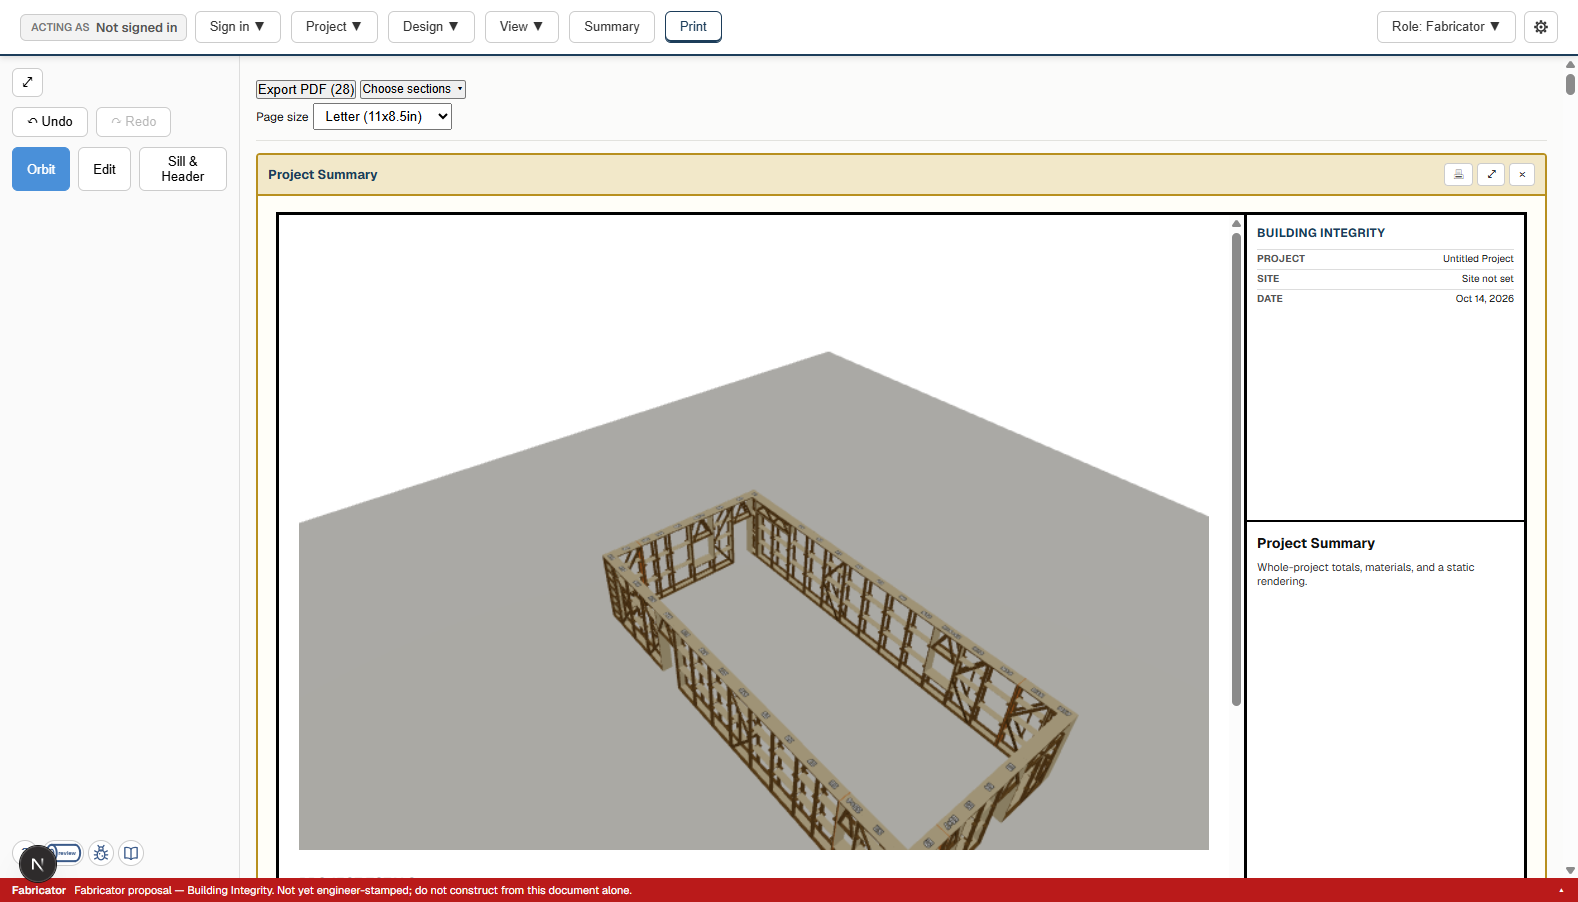
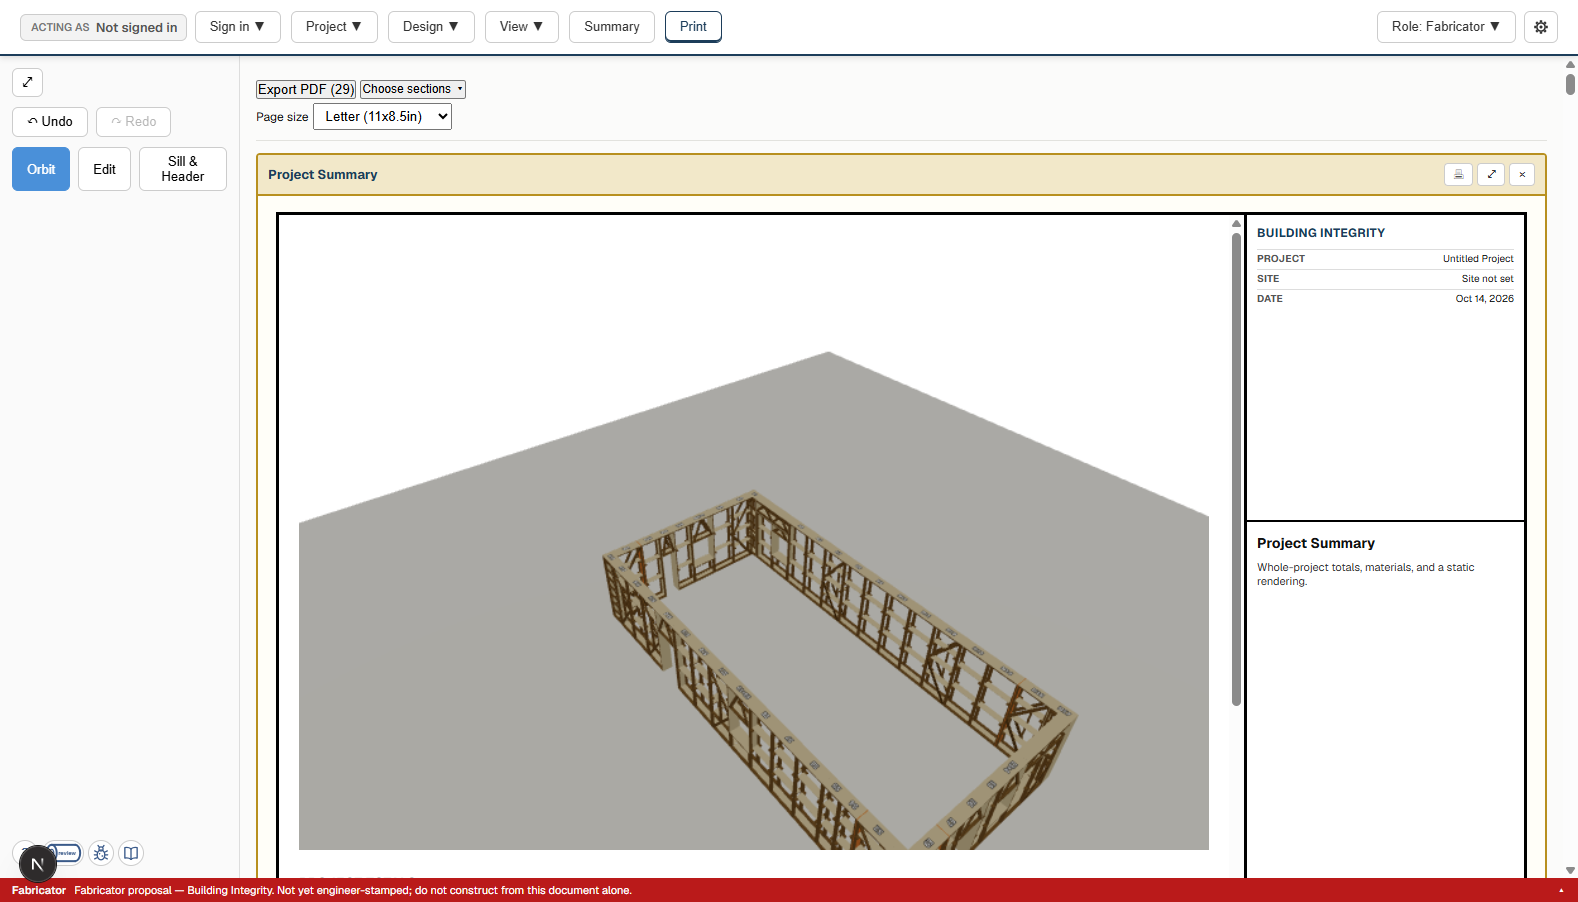
One badge per cut letter on the 3D view, on the nearest occurrence
Tommy, 2026-10-13, shown the first version: label one occurrence per letter,
keep the badges big, and the 3D view is the only image on the sheet.

The 3D view shows BOTH wythes, which the flat elevation hid because they
overlapped exactly — so a braced panel whose cut list has 7 letters was
carrying about 24 badges and burying the drawing they exist to explain. The cut
list already states the quantity: the table says HOW MANY, the drawing says
WHERE.

Nearest rather than first, because a leader line pointing at a member hidden
behind another one is worse than no leader at all. Result on a chevron braced
panel: 7 badges, 7 letters, no repeats.

⚠ AND THE FIRST IMPLEMENTATION OF THAT PICKED THE WRONG ONE. It deduplicated
with `new Map(pairs)` over a nearest-first list — but a Map built from
[key, value] pairs keeps the LAST entry for each key, so it selected the
FARTHEST occurrence of every letter: leaders pointing at boards hidden behind
other boards. Invisible in the rendered drawing, because a badge is present
either way and the picture looks fine. Replaced with an explicit seen-set that
says what it does, and pinned by a test — which lives in the projection's test
file precisely because the failure cannot be seen on screen.

Verified: tsc clean; 2,864 tests (was 2,861), 3 of them on the nearest-pick;
lint 168/120/48 — it went to 170/120/50 on two unused filter parameters I had
left in, named and removed rather than waved through; smearforn-stage-2b 14/14,
[…]

diff --git a/apps/web/app/panelAxonometric.test.ts b/apps/web/app/panelAxonometric.test.ts
@@ -131,3 +131,49 @@ describe("shading a colour", () => {
     }
   });
 });
+
+describe("picking which occurrence gets the badge", () => {
+  /* ⚠ The sheet labels one occurrence per cut letter, and it must be the
+     NEAREST one: a leader pointing at a member hidden behind another is worse
+     than no leader. This lives here rather than in the component because the
+     failure mode is invisible on screen — a badge is present either way, just
+     attached to the wrong board, and the drawing looks fine. */
+  const members = buildBracedPanelMembers(40, 15.5, 120, false, "chevron", false);
+  const proj = projectPanelAxonometric(members);
+
+  it("centroids carry a depth, so nearest is decidable at all", () => {
+    expect(proj.centroids).toHaveLength(members.length);
+    for (const c of proj.centroids) expect(Number.isFinite(c.depthIn)).toBe(true);
+  });
+
+  it("⚠ the two wythes really are at different depths — otherwise there is nothing to pick between", () => {
+    // A braced panel builds each brace twice, once per wythe. If both came back
+    // at the same depth, "nearest" would be a coin toss and this whole rule
+    // would be decorative.
+    const ext = members.findIndex((m) => m.memberId === "diagonal_brace_upper_ext");
+    const int = members.findIndex((m) => m.memberId === "diagonal_brace_upper_int");
+    expect(ext).toBeGreaterThanOrEqual(0);
+    expect(int).toBeGreaterThanOrEqual(0);
+    expect(Math.abs(proj.centroids[ext]!.depthIn - proj.centroids[int]!.depthIn)).toBeGreaterThan(1);
+  });
+
+  it("sorting nearest-first and keeping the FIRST of each letter keeps the near one", () => {
+    // The shape of the component's own selection, asserted directly: a Map
+    // built from [key, value] pairs would keep the LAST and silently select the
+    // farthest instead.
+    const byDepth = members
+      .map((m, i) => ({ id: m.memberId, depth: proj.centroids[i]!.depthIn }))
+      .sort((a, b) => a.depth - b.depth);
+    const seen = new Set<string>();
+    const kept = byDepth.filter((e) => {
+      const key = e.id.replace(/_(ext|int)$/, "");
+      if (seen.has(key)) return false;
+      seen.add(key);
+      return true;
+    });
+    for (const k of kept) {
+      const siblings = byDepth.filter((e) => e.id.replace(/_(ext|int)$/, "") === k.id.replace(/_(ext|int)$/, ""));
+      expect(k.depth).toBe(Math.min(...siblings.map((s) => s.depth)));
+    }
+  });
+});

diff --git a/apps/web/app/PanelElevationDiagram.tsx b/apps/web/app/PanelElevationDiagram.tsx
@@ -310,8 +310,31 @@ export default function PanelElevationDiagram({ members, widthIn, heightIn, comp
   const uToPx = (uIn: number) => originX + (uIn - (axo?.bounds.minU ?? 0)) * pxPerIn;
   const vToPx = (vIn: number) => originY + (vIn - (axo?.bounds.minV ?? 0)) * pxPerIn;
 
+  // Tracks which cut letters already have a badge on the axonometric.
+  const seenLetters = new Set<string>();
   const shapes: LetteredShape[] = axo
-    ? eligibleMembers.map((member, i) => {
+    ? /* ⚠ ONE BADGE PER LETTER, ON THE NEAREST OCCURRENCE — Tommy, 2026-10-13.
+         A 3D view shows both wythes, so labelling every member put a braced
+         panel's 7 cut letters on screen about 24 times and buried the drawing.
+         The cut list already states the quantity: the table says HOW MANY, the
+         drawing says WHERE. Nearest rather than first, because a leader line
+         pointing at a member hidden behind another one is worse than no leader
+         at all. */
+      eligibleMembers
+        .map((member, i) => ({ member, c: axo.centroids[i]! }))
+        .sort((a, b) => a.c.depthIn - b.c.depthIn)
+        /* ⚠ An explicit seen-set, NOT `new Map(pairs)`. A Map built from
+           [key, value] pairs keeps the LAST entry for each key, so against a
+           nearest-first list it would have selected the FARTHEST occurrence of
+           every letter — the exact opposite of the intent, and invisible in a
+           rendered drawing where some badge is present either way. */
+        .filter((entry) => {
+          const letter = letterByMemberId.get(entry.member.memberId)!;
+          if (seenLetters.has(letter)) return false;
+          seenLetters.add(letter);
+          return true;
+        })
+        .map(({ member, c }) => {
         const size = memberBoxSizeIn(member);
         return {
           member,
@@ -319,7 +342,7 @@ export default function PanelElevationDiagram({ members, widthIn, heightIn, comp
           // `placeBadges` reads only `centroidPx` and `minorDimIn`; the faces are
           // drawn from `axo.faces` instead, sorted back to front.
           points: [],
-          centroidPx: { xPx: uToPx(axo.centroids[i]!.uIn), yPx: vToPx(axo.centroids[i]!.vIn) },
+          centroidPx: { xPx: uToPx(c.uIn), yPx: vToPx(c.vIn) },
           minorDimIn: Math.min(size.xIn, size.yIn, size.zIn),
           letter: letterByMemberId.get(member.memberId)!,
         };

diff --git a/apps/web/app/panelAxonometric.ts b/apps/web/app/panelAxonometric.ts
@@ -72,8 +72,15 @@ export interface AxonometricFace {
 
 export interface PanelAxonometric {
   faces: AxonometricFace[];
-  /** One per member, in the same order as the input list. */
-  centroids: { uIn: number; vIn: number }[];
+  /** One per member, in the same order as the input list.
+   *
+   * ⚠ Carries `depthIn` because the sheet labels only the NEAREST occurrence
+   * of each cut (Tommy, 2026-10-13). A 3D view shows both wythes, so every
+   * letter would otherwise appear twice — about 24 badges on a braced panel
+   * whose cut list has 7 letters — burying the drawing the badges are there
+   * to explain. Pointing a leader at a member hidden behind another is also
+   * worse than useless, so near is the right one to keep. */
+  centroids: { uIn: number; vIn: number; depthIn: number }[];
   bounds: { minU: number; minV: number; maxU: number; maxV: number };
 }
 
@@ -146,7 +153,7 @@ export function projectPanelAxonometric(
   angles: AxonometricAngles = SHOP_DRAWING_ANGLES,
 ): PanelAxonometric {
   const faces: AxonometricFace[] = [];
-  const centroids: { uIn: number; vIn: number }[] = [];
+  const centroids: { uIn: number; vIn: number; depthIn: number }[] = [];
   let minU = Infinity;
   let minV = Infinity;
   let maxU = -Infinity;
@@ -158,15 +165,21 @@ export function projectPanelAxonometric(
 
     let sumU = 0;
     let sumV = 0;
+    let sumDepth = 0;
     for (const p of projected) {
       sumU += p.uIn;
       sumV += p.vIn;
+      sumDepth += p.depthIn;
       if (p.uIn < minU) minU = p.uIn;
       if (p.uIn > maxU) maxU = p.uIn;
       if (p.vIn < minV) minV = p.vIn;
       if (p.vIn > maxV) maxV = p.vIn;
     }
-    centroids.push({ uIn: sumU / projected.length, vIn: sumV / projected.length });
+    centroids.push({
+      uIn: sumU / projected.length,
+      vIn: sumV / projected.length,
+      depthIn: sumDepth / projected.length,
+    });
 
     for (const indices of memberFaceIndices(member)) {
       const pts = indices.map((i) => projected[i - 1]!);
